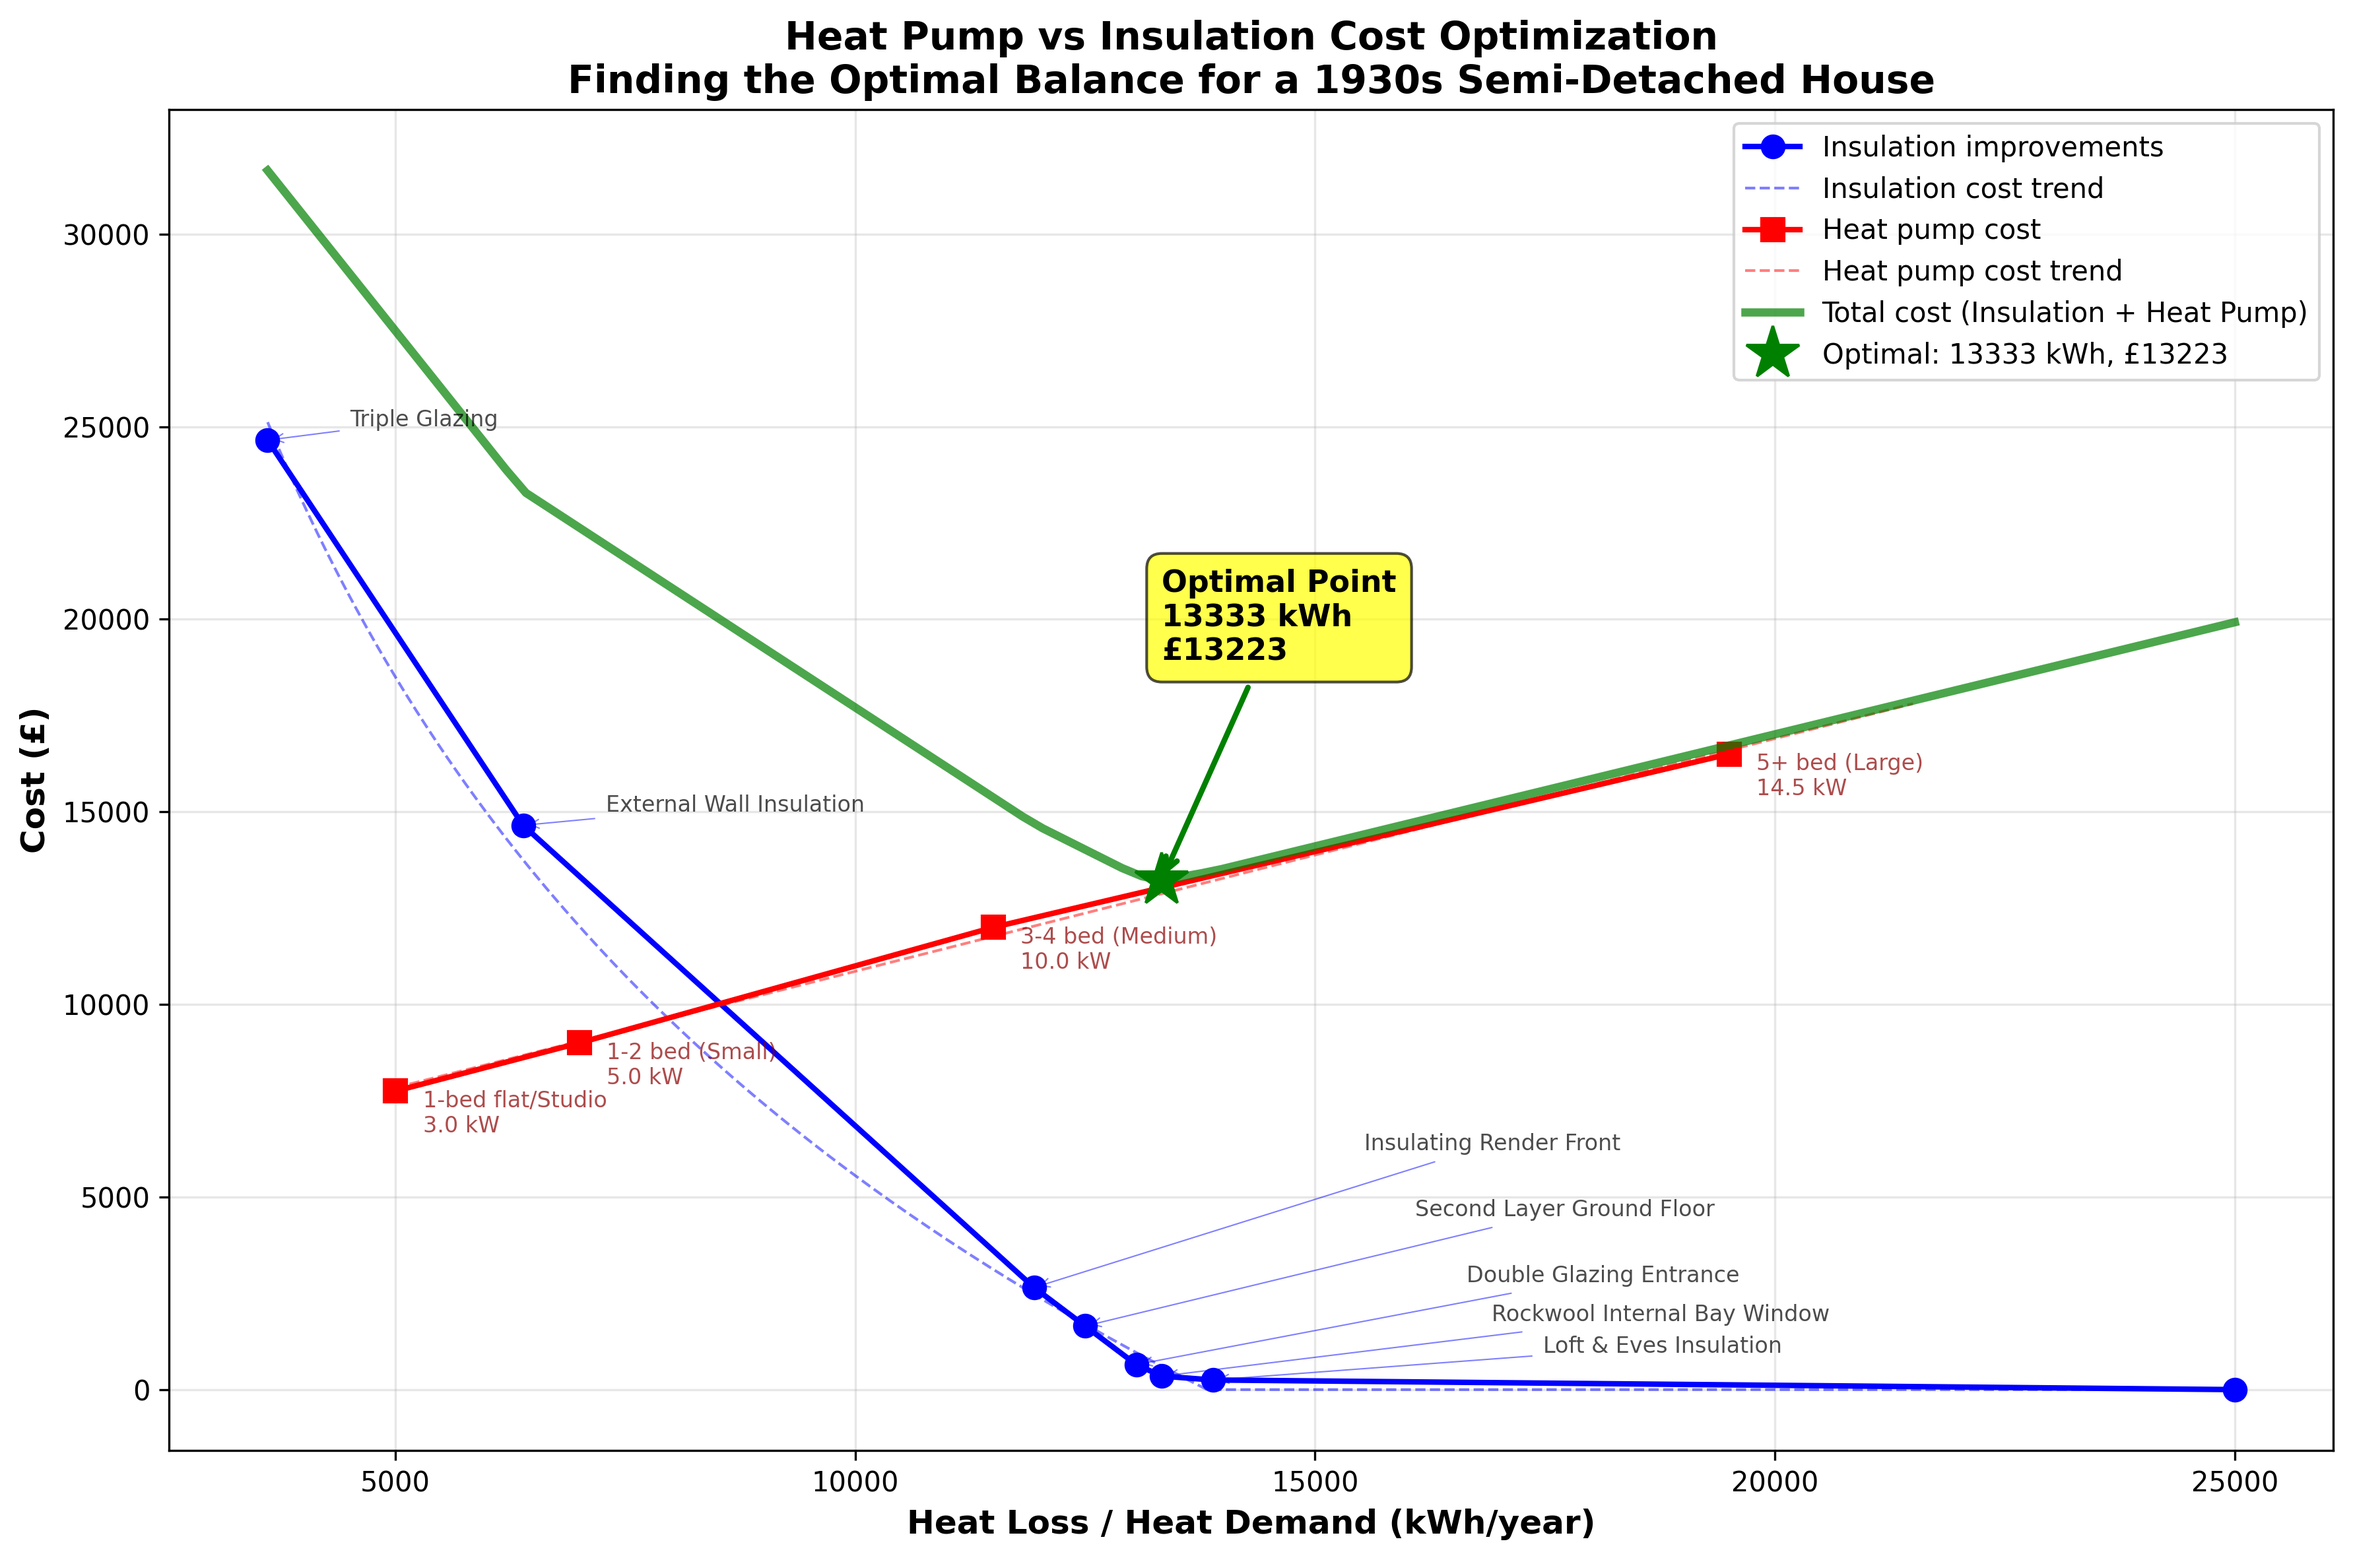
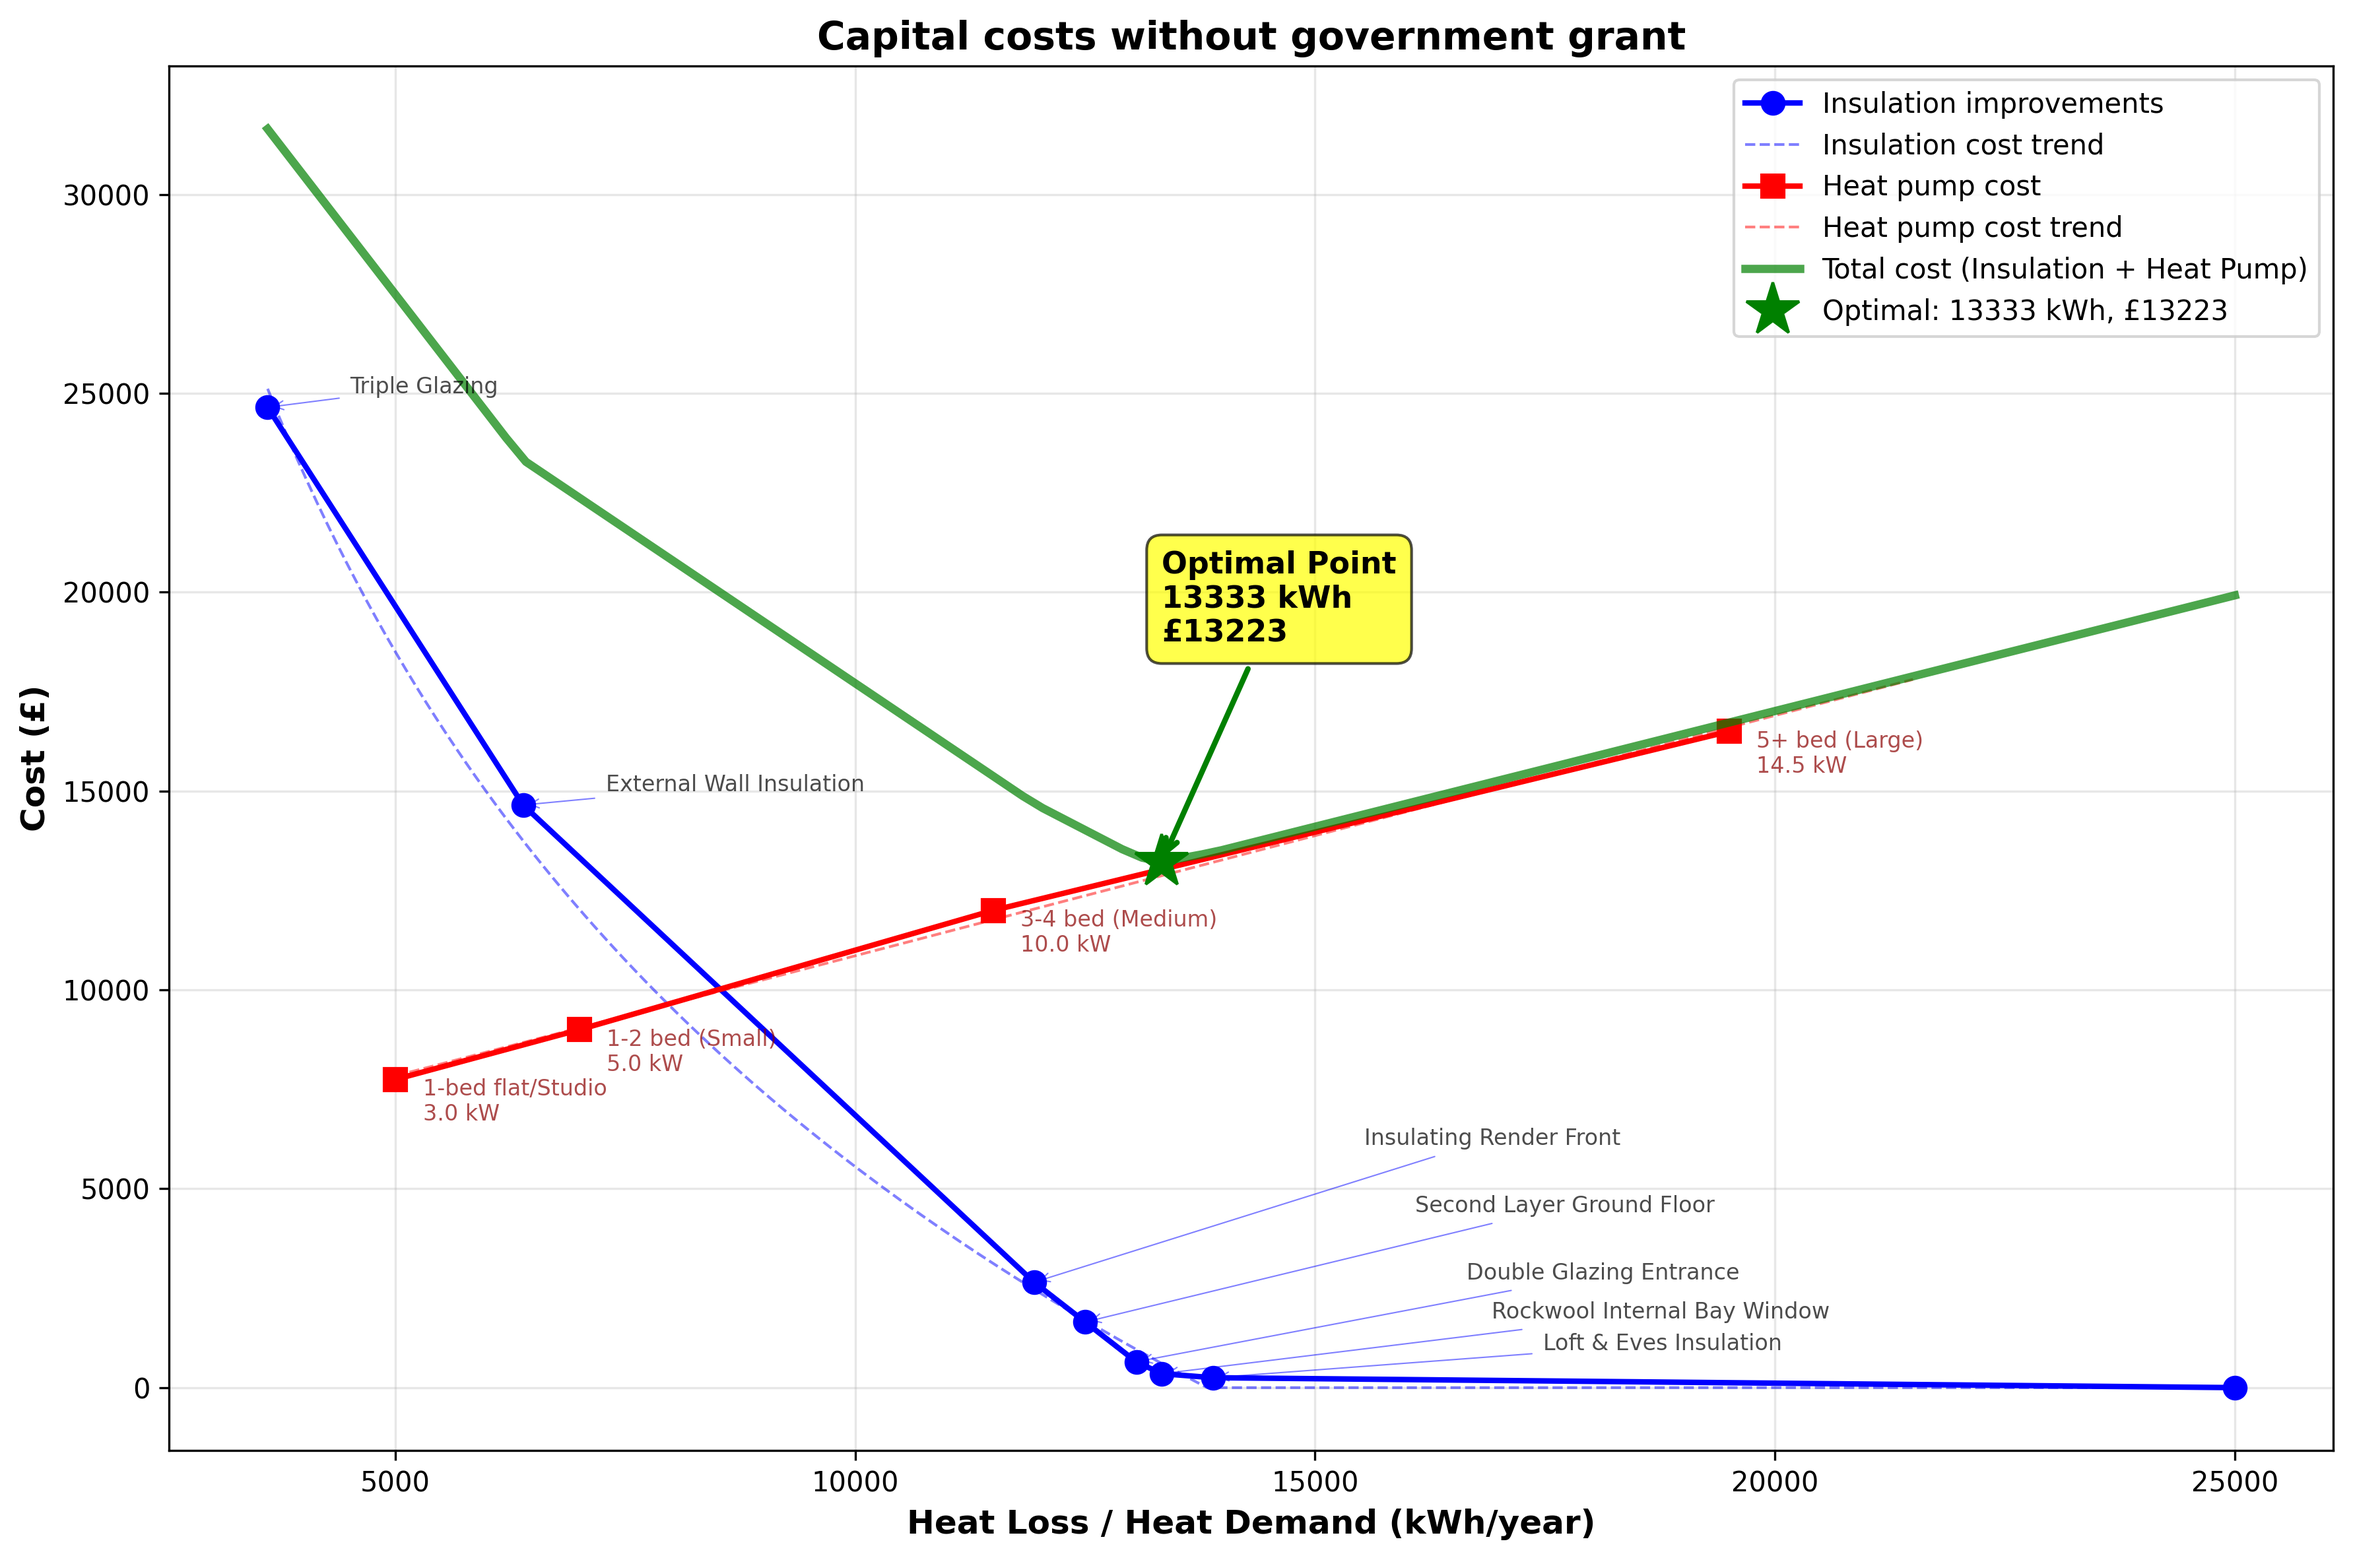
Prettier plots

diff --git a/src/heat_pump_cost/plotter.py b/src/heat_pump_cost/plotter.py
@@ -150,23 +150,27 @@ class CostPlotter:
         ax.set_xlabel('Heat Loss / Heat Demand (kWh/year)', fontsize=12, fontweight='bold')
         ax.set_ylabel('Cost (£)', fontsize=12, fontweight='bold')
         
-        title_base = 'Heat Pump vs Insulation Cost Optimization\n' + \
-                     'Finding the Optimal Balance for a 1930s Semi-Detached House'
         if title_suffix:
-            title_base += f'\n{title_suffix}'
+            # Use custom title if provided
+            title_text = title_suffix
+        else:
+            # Use default title
+            title_text = 'Heat Pump vs Insulation Cost Optimization\n' + \
+                        'Finding the Optimal Balance for a 1930s Semi-Detached House'
         
-        ax.set_title(title_base, fontsize=14, fontweight='bold')
+        ax.set_title(title_text, fontsize=14, fontweight='bold')
         ax.legend(fontsize=10, loc='best')
         ax.grid(True, alpha=0.3)
         
         return fig
     
-    def save_plot(self, filename: str, dpi: int = 300):
+    def save_plot(self, filename: str, dpi: int = 300, title: str = ""):
         """Save the plot to a file.
         
         Args:
             filename: Output filename (can include path)
             dpi: Resolution in dots per inch
+            title: Custom title for the plot
         """
         from pathlib import Path
         
@@ -174,7 +178,7 @@ class CostPlotter:
         output_path = Path(filename)
         output_path.parent.mkdir(parents=True, exist_ok=True)
         
-        fig = self.create_plot()
+        fig = self.create_plot(title_suffix=title)
         fig.tight_layout()
         fig.savefig(str(output_path), dpi=dpi, bbox_inches='tight')
         plt.close(fig)

diff --git a/src/heat_pump_cost/plot_cost_analysis.py b/src/heat_pump_cost/plot_cost_analysis.py
@@ -114,17 +114,21 @@ def run_analysis(initial_heat_loss: float,
     
     # Capital only plots
     plotter = CostPlotter(result1a)
-    plotter.save_plot(output_dir / 'heat_pump_1_no_grant_capital_only.png')
+    plotter.save_plot(output_dir / 'heat_pump_1_no_grant_capital_only.png',
+                      title='Capital costs without government grant')
     
     plotter = CostPlotter(result2a)
-    plotter.save_plot(output_dir / 'heat_pump_2_with_grant_capital_only.png')
+    plotter.save_plot(output_dir / 'heat_pump_2_with_grant_capital_only.png',
+                      title='Capital costs with government grant')
     
     # With runtime costs plots
     plotter = CostPlotter(result1b)
-    plotter.save_plot(output_dir / 'heat_pump_4_no_grant_with_runtime.png')
+    plotter.save_plot(output_dir / 'heat_pump_4_no_grant_with_runtime.png',
+                      title='Total costs without government grant')
     
     plotter = CostPlotter(result2b)
-    plotter.save_plot(output_dir / 'heat_pump_5_with_grant_with_runtime.png')
+    plotter.save_plot(output_dir / 'heat_pump_5_with_grant_with_runtime.png',
+                      title='Total costs with government grant')
     
     print(f"\nAll 4 plots saved to {output_dir}:")
     print(f"\nCapital costs only:")

diff --git a/article.md b/article.md
@@ -53,7 +53,7 @@ When considering only the upfront capital costs of installation, the analysis re
 
 ### Scenario 1: No Government Grant
 
-![Capital costs without grant](assets/heat_pump_1_no_grant_capital_only.png)
+![Capital costs without government grant](assets/heat_pump_1_no_grant_capital_only.png)
 
 Without any government support, the optimal approach requires a total capital investment of **£13,223**. This consists of:
 - **£350** for insulation (loft insulation + rockwool bay window, reducing heat loss from 25,000 to 13,333 kWh/year)
@@ -63,7 +63,7 @@ The analysis shows that implementing the two most cost-effective improvements co
 
 ### Scenario 2: With £7,500 Government Grant
 
-![Capital costs with grant](assets/heat_pump_2_with_grant_capital_only.png)
+![Capital costs with government grant](assets/heat_pump_2_with_grant_capital_only.png)
 
 The UK's Boiler Upgrade Scheme provides a £7,500 grant towards heat pump installation. With this support, the total capital cost reduces to **£5,723**:
 - **£350** for insulation
@@ -81,7 +81,7 @@ The analysis changes dramatically when operational costs—specifically electric
 
 ### Scenario 1: No Government Grant
 
-![Total costs without grant](assets/heat_pump_4_no_grant_with_runtime.png)
+![Total costs without government grant](assets/heat_pump_4_no_grant_with_runtime.png)
 
 Including 25 years of electricity costs at £0.15/kWh transforms the cost picture:
 
@@ -93,7 +93,7 @@ The runtime costs now approach the capital investment, demonstrating that operat
 
 ### Scenario 2: With £7,500 Government Grant
 
-![Total costs with grant](assets/heat_pump_5_with_grant_with_runtime.png)
+![Total costs with government grant](assets/heat_pump_5_with_grant_with_runtime.png)
 
 With the £7,500 grant and 25 years of operation:
 
